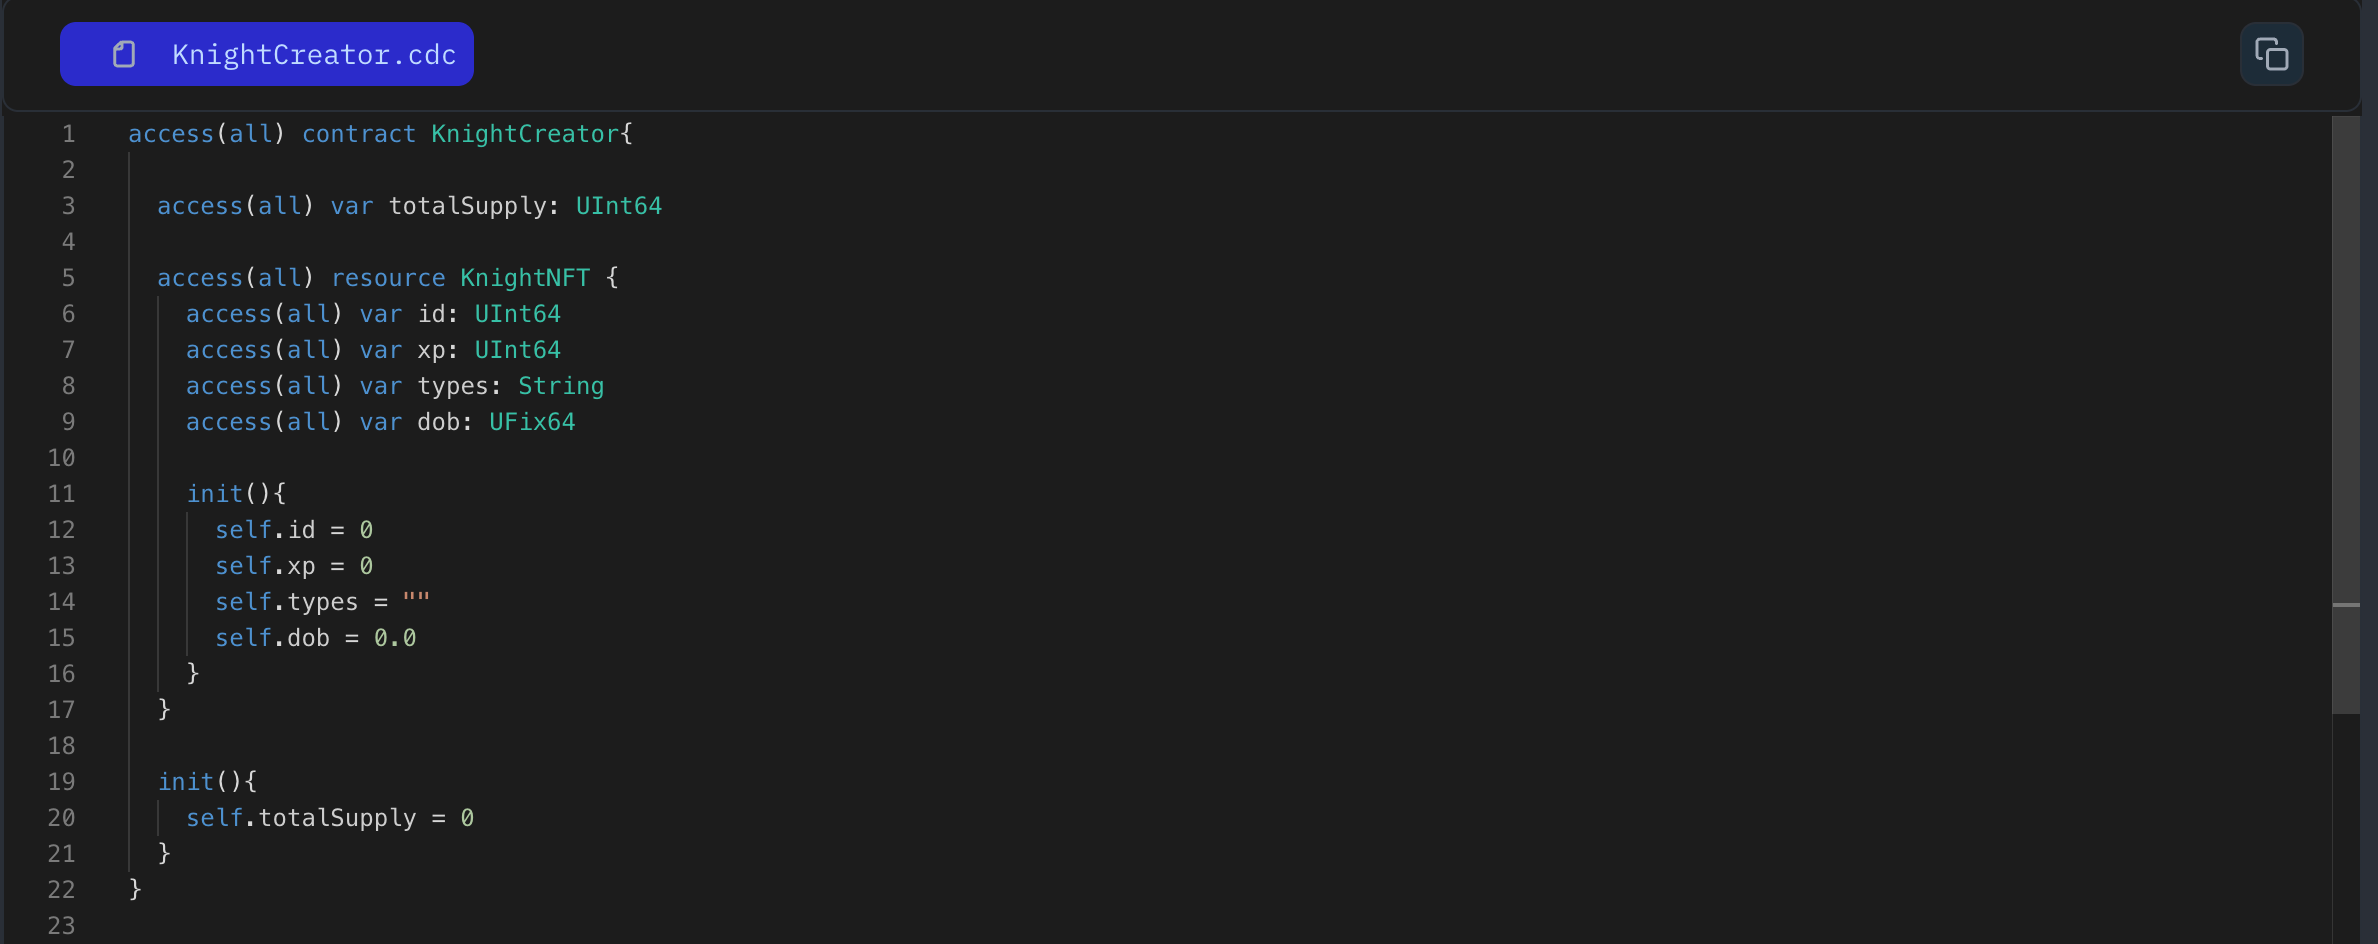
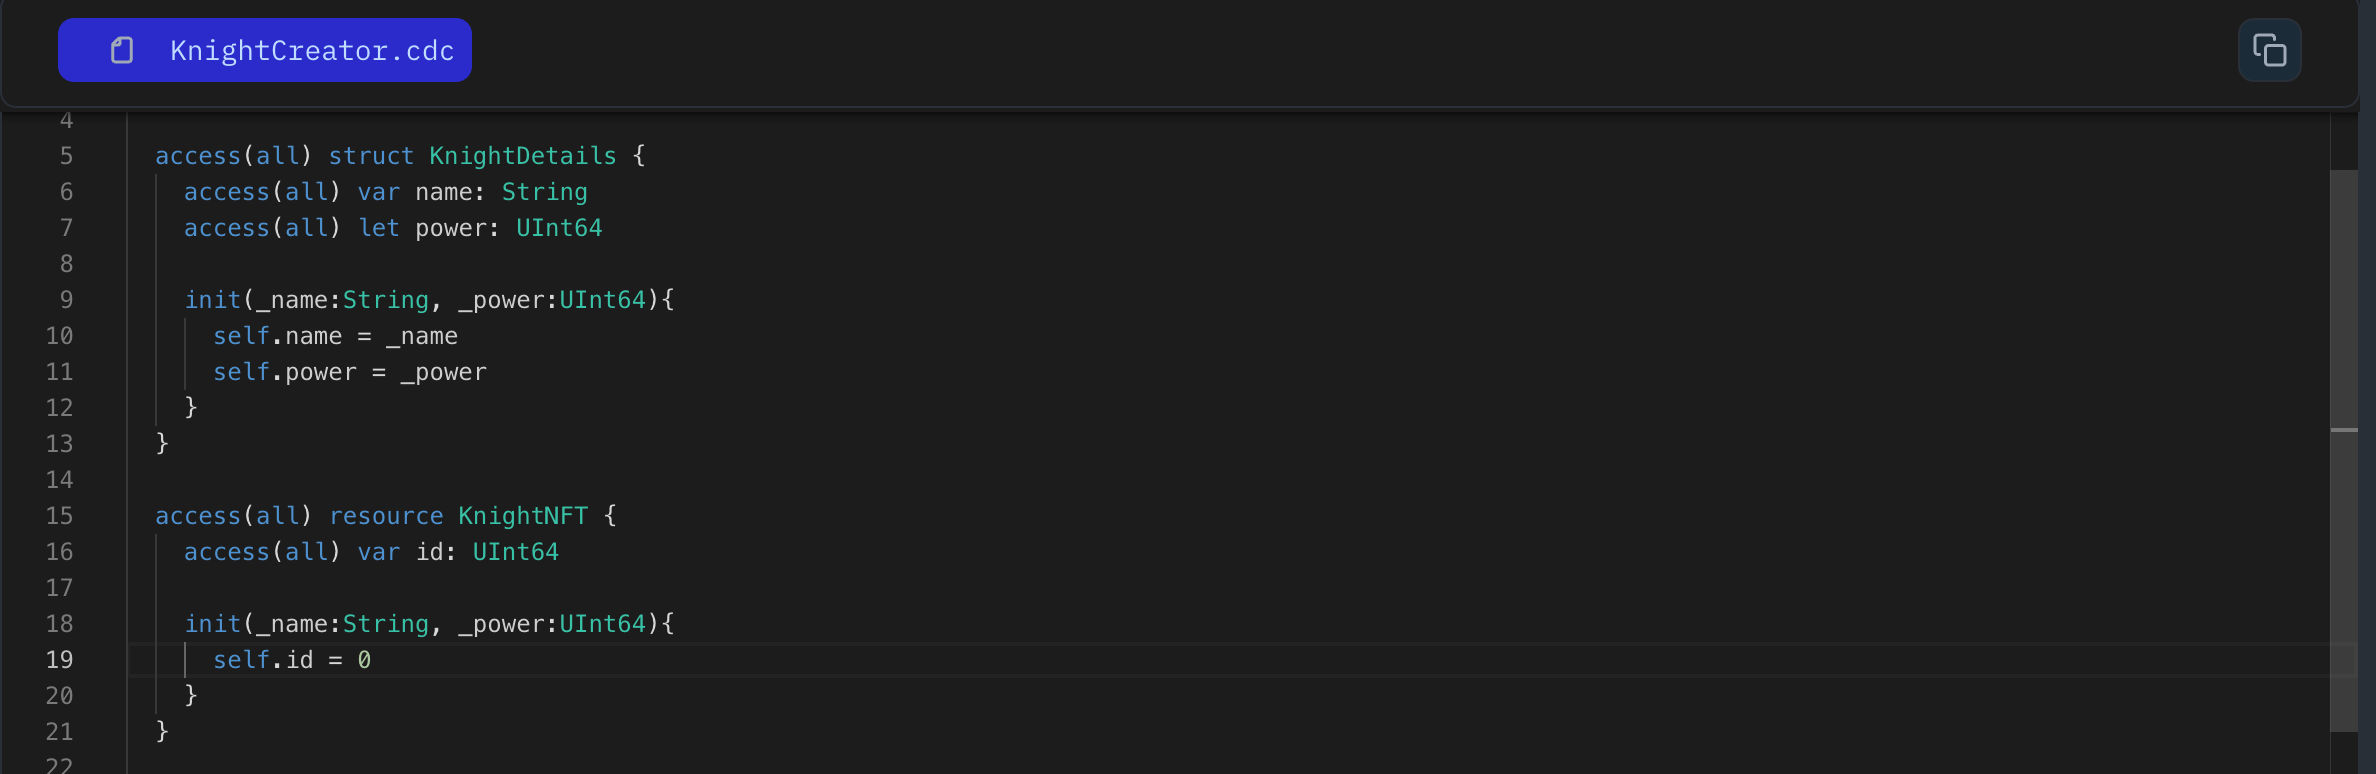
Update: M2 all lessons

diff --git a/doc/docs/Module 2/Lesson 7.md b/doc/docs/Module 2/Lesson 7.md
@@ -1,9 +1,9 @@
 ---
-title: Lesson 7 - Using Structs in Resources
+title: Lesson 7 - Organizing Resource Data with Structs
 sidebar_position: 7
 ---
 
-In this lesson, we'll explore how to utilize structs within resources to manage complex data structures more effectively. Imagine you have a struct called `Book`, which stores information about a book, such as its title and author.
+This lesson shows how to use structs within resources! Structs act like containers to group related data. Imagine you have a struct called `Book`, which stores information about a book, such as its title and author.
 
 ```cadence
 access(all) struct Book {
@@ -30,7 +30,7 @@ access(all) resource Library {
 }
 ```
 
-### **Explanation:**
+### Breaking it Down:
 
 - We define a struct `Book` with properties for `title` and `author`.
 - The `Library` resource contains a property `book` of type `Book`.
@@ -39,4 +39,9 @@ access(all) resource Library {
 ### Put it to the Test
 
 1. Open Flow [Playground](https://play.flow.com/)
-2. Add `KnightDetails` to the `KnightNFT` resource.
+2. Use `KnightDetails` inside a `KnightNFT` resource.
+   This way, we keep knight data organized and easy to manage.
+
+### Solution !!
+
+![Alt text](image-2.png)

diff --git a/doc/docs/Module 2/Lesson 6.md b/doc/docs/Module 2/Lesson 6.md
@@ -16,7 +16,7 @@ access(all) struct Book {
 
 ```
 
-Inside a struct, you can define variables and functions. Every time you create a struct, you must include an initializer to set initial variable values. Let's take a look:
+Inside a struct, you can define variables and functions. Every time you create a struct followed by the structure name, you must include an initializer to set initial variable values. Let's take a look:
 
 ```jsx
 
@@ -42,6 +42,11 @@ access(all) struct Book {
 ### Put it to the Test
 
 1. Open Flow [Playground](https://play.flow.com/)
-2. Create a struct named `KnightDetails`. And inside two variables: `name` and `createdDate`, of type `String` and `UFix64` respectively.
-3. Initialize name and createdDate in the init function.
-4. To get the current date, use getCurrentBlock().timestamp.
+2. Create a struct named `KnightDetails`.
+3. Inside add two variable `name` (of type String) and `power` (of type UInt64)
+4. Initialize name and power in the init function.
+5. And delete these variable from the `KnightNFT` resource
+
+### Solution !!
+
+![Alt text](image-3.png)

diff --git a/doc/docs/Module 2/Lesson 5.md b/doc/docs/Module 2/Lesson 5.md
@@ -43,8 +43,8 @@ access(all) resource Country{
 
 1. Open Flow [Playground](https://play.flow.com/)
 2. Create a resource named `KnightNFT`.
-3. Inside resource, create four public variables named `id` (of type UInt64),`power` (of type UInt64),`name` (of type String), `type`(of type String) and the `Date of Birth`(of type UFix64) initialize UInt64 with 0, String with empty string and UFix64 with 0.0
+3. Inside resource, create three public variables named `id` (of type UInt64), `name` (of type String), `power` (of type UInt64) initialize id with 0 value.
 
 ### Solution !!
 
-![Alt text](image-4.png)
+![Alt text](image-6.png)

diff --git a/doc/docs/Module 2/Lesson 9.md b/doc/docs/Module 2/Lesson 9.md
@@ -3,7 +3,8 @@ title: Lesson 9 - function declaration
 sidebar_position: 9
 ---
 
-In Cadence, declaring a function involves specifying its name, parameters, return type (if any), and visibility.
+In Cadence, declaring a function involves specifying its visibility, `fun` keyword, function name, parameters, return type (if any).
+
 Let's break down the structure of a function declaration:
 
 ```jsx
@@ -25,3 +26,7 @@ access(all) fun setNewValue(newVal: UInt64) {
 
 1. Open Flow [Playground](https://play.flow.com/)
 2. Create a public function named `createKnight`.
+
+### Solution !!
+
+<!-- ![Alt text](image-5.png) -->
